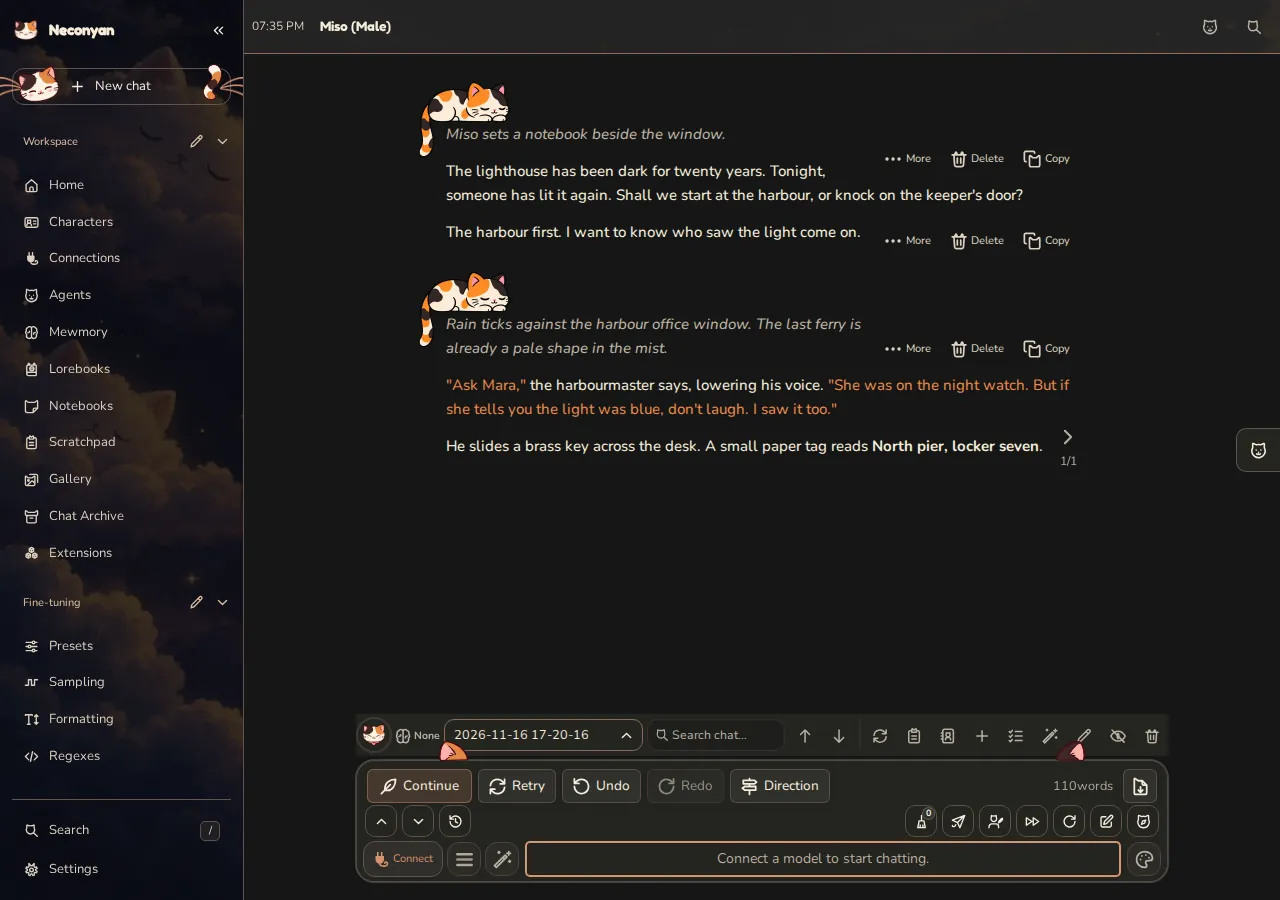
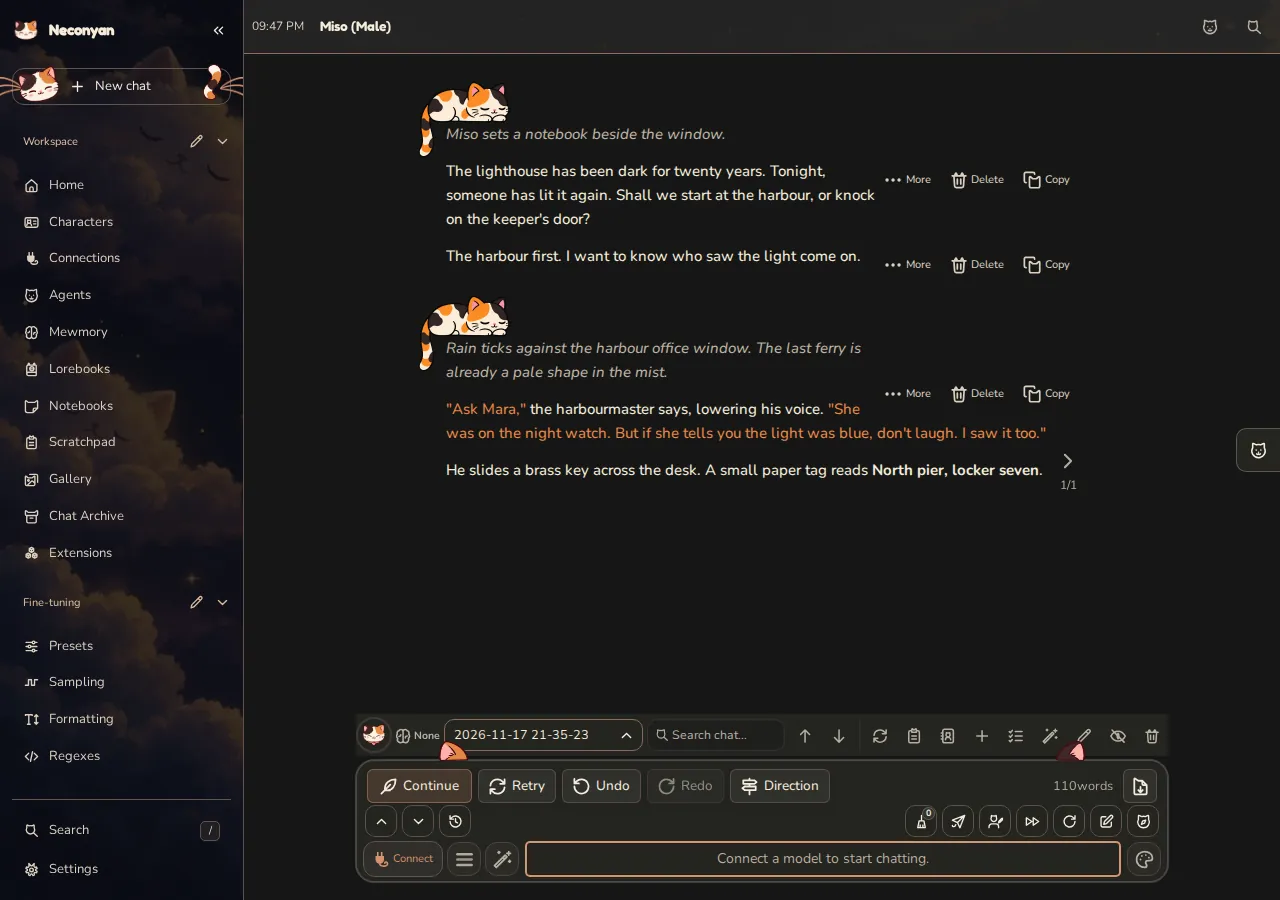
docs(screenshots): refresh the workspace screenshots from 31d628fa

Changed region(s): [[0.3125, 0.2178, 0.8438, 0.5289], [0.6875, 0.1556, 0.8438, 0.3111], [0.4062, 0.8089, 0.4688, 0.84]]

diff --git a/README.md b/README.md
@@ -6,7 +6,7 @@ I want you to get a reply before you need to understand every setting. The guide
 
 Miso, Taro and Nori explain things in their own voices. You can choose each guide’s male, female or neutral appearance independently. Their dialogue is written documentation; reading it doesn’t call a model.
 
-The site includes 55 pages, a reference for 201 registered macros, twenty-four real demonstration screenshots and a downloadable extension starter. I've reviewed the practical guides for the published [Neconyan 1.5.5 release](https://github.com/platberlitz/Neconyan/releases/tag/v1.5.5) at **`680a05f1`** on 15 November 2026. This edition covers Mewmory's Story tab, Archive tools, in-chat controls, estimates and exports; Scratchpad's quick prompts, typed tools, dictation, branching, export choices and extra change cards; the Translator Agent; the reworked Presets page; the Conversation messenger layout; failed and empty replies; and the Device sync fixes. I refreshed all twenty-four screenshots on 16 November from the 1.5.6 staging build, with the source recorded in [ASSETS.md](ASSETS.md). The macro catalogue retains its reviewed 7 October snapshot. The Scene Note starter and extension styling guide carry the accent button guidance; the other extension examples retain their reviewed 7 October snapshots.
+The site includes 55 pages, a reference for 201 registered macros, twenty-four real demonstration screenshots and a downloadable extension starter. I've reviewed the practical guides for the published [Neconyan 1.5.5 release](https://github.com/platberlitz/Neconyan/releases/tag/v1.5.5) at **`680a05f1`** on 15 November 2026. This edition covers Mewmory's Story tab, Archive tools, in-chat controls, estimates and exports; Scratchpad's quick prompts, typed tools, dictation, branching, export choices and extra change cards; the Translator Agent; the reworked Presets page; the Conversation messenger layout; failed and empty replies; and the Device sync fixes. I refreshed all twenty-four screenshots on 17 November from the 1.5.6 staging build, with the source recorded in [ASSETS.md](ASSETS.md). The macro catalogue retains its reviewed 7 October snapshot. The Scene Note starter and extension styling guide carry the accent button guidance; the other extension examples retain their reviewed 7 October snapshots.
 
 ## Preview locally
 
@@ -43,7 +43,7 @@ Avoid repeated 'same X' phrasing and three-item lists written for rhythm. Keep a
 
 Use demonstration data for screenshots. Desktop captures are 1280×900 and phone captures are 393×852. Keep verification captures in `screenshots/`; that directory is ignored. Images published in the handbook belong in `docs/assets/images/screenshots/`.
 
-I captured all twenty-four screenshots on 16 November 2026 from Neconyan at `49d60b17`, using the default Calico Dark accent and Background Visibility at 0%. The app README uses identical copies. The Proofreader example uses a fixed sample response through the real Agent workflow, with edit, Undo and Redo checked at both widths. Capture provenance and browser settings are in [ASSETS.md](ASSETS.md). When replacing screenshots, update that record and check the affected guides and screenshot zoom at both widths.
+I captured all twenty-four screenshots on 17 November 2026 from Neconyan at `31d628fa`, using the default Calico Dark accent and Background Visibility at 0%. The app README uses identical copies. The Proofreader example uses a fixed sample response through the real Agent workflow, with edit, Undo and Redo checked at both widths. Capture provenance and browser settings are in [ASSETS.md](ASSETS.md). When replacing screenshots, update that record and check the affected guides and screenshot zoom at both widths.
 
 ## Update the macro reference
 

diff --git a/ASSETS.md b/ASSETS.md
@@ -4,11 +4,11 @@ The bundled artwork was copied from [Neconyan at 6e0269d0](https://github.com/pl
 
 ## Screenshots
 
-I captured all twenty-four screenshots on 16 November 2026 from [Neconyan at 49d60b17](https://github.com/platberlitz/Neconyan/tree/49d60b1740f00ee27a5a0b39f255f969748c2c36), the 1.5.6 staging build. Home, Roleplay, Catelier, Simple Mode, Conversation, Meower, Story Mode, Notebooks, Scratchpad, Agents, Proofreader and Device sync each have a desktop and phone image. The app README and this handbook use identical copies.
+I captured all twenty-four screenshots on 17 November 2026 from [Neconyan at 31d628fa](https://github.com/platberlitz/Neconyan/tree/31d628fa), the 1.5.6 staging build with the tour card fix for short phone screens. Home, Roleplay, Catelier, Simple Mode, Conversation, Meower, Story Mode, Notebooks, Scratchpad, Agents, Proofreader and Device sync each have a desktop and phone image. The app README and this handbook use identical copies.
 
 The captures use disposable demonstration data: Calico Dark with its default accent, bundled assistants and staged chats, posts, notes, a character dossier and a Scratchpad discussion. I set Background Visibility to 0% for opaque reading panels. The default colours and visibility setting were checked before every capture. No personal account data was used. The Proofreader example runs the real Agent workflow with one intercepted provider request returning a fixed sample response; its edit, Undo and Redo were checked again at both widths. It isn't a live model demonstration. No external model requests were made.
 
-These replace the twenty-two images from the 1.5.4 candidate and the two Conversation images from 1.5.5 staging. Neconyan 1.5.5 remains the published release; the screenshot refresh doesn't change the guides' recorded review version.
+These replace the 16 November captures from `49d60b17`. Neconyan 1.5.5 remains the published release; the screenshot refresh doesn't change the guides' recorded review version.
 
 I used Playwright with Chromium at 1280×900 for desktop with a pixel ratio of 1, and 393×852 with touch emulation for phone at a pixel ratio of 1.5. The saved images are 1280×900 and 590×1278 pixels. These are browser viewport captures, not physical-phone or Safari verification. I converted them to WebP at quality 80, method 6, without resizing or compositing interface elements.
 

diff --git a/docs/help/about.md b/docs/help/about.md
@@ -30,7 +30,7 @@ The practical guides focus on common tasks and link to longer references when yo
 
 ## Screenshots and artwork
 
-I refreshed all twenty-four workspace screenshots on 16 November 2026 from [Neconyan at 49d60b17](https://github.com/platberlitz/Neconyan/tree/49d60b1740f00ee27a5a0b39f255f969748c2c36), the 1.5.6 staging build. They use the default Calico Dark colours, Background Visibility at 0%, demonstration content and the bundled assistants. Some details may look different in the published 1.5.5 release. The Proofreader example uses a fixed sample response through the real edit-history workflow, with edit, Undo and Redo checked at both widths. It isn't a live model conversation.
+I refreshed all twenty-four workspace screenshots on 17 November 2026 from [Neconyan at 31d628fa](https://github.com/platberlitz/Neconyan/tree/31d628fa), the 1.5.6 staging build. They use the default Calico Dark colours, Background Visibility at 0%, demonstration content and the bundled assistants. Some details may look different in the published 1.5.5 release. The Proofreader example uses a fixed sample response through the real edit-history workflow, with edit, Undo and Redo checked at both widths. It isn't a live model conversation.
 
 Miso, Taro and Nori use Neconyan's existing assistant artwork, with male, female and neutral variants. Their handbook dialogue is written guidance, not a live model conversation. Gender preferences stay in the browser when storage is available.
 

diff --git a/docs/help/device-sync.md b/docs/help/device-sync.md
@@ -12,7 +12,7 @@ quote: 'Choose what travels, save on both sides, then transfer. A newer date alo
     I've reviewed this guide against the published [Neconyan 1.5.4 release](https://github.com/platberlitz/Neconyan/releases/tag/v1.5.4) at commit **e1f05ec6** on 11 November 2026.
 
 !!! info "Changed in 1.5.5"
-    I've reviewed this guide against the published [Neconyan 1.5.5 release](https://github.com/platberlitz/Neconyan/releases/tag/v1.5.5) at commit **680a05f1** on 15 November 2026. The fixes marked 1.5.5 below aren't in 1.5.4 or earlier. I refreshed the screenshots on 16 November from the 1.5.6 staging build; see [About these docs](about.md#screenshots-and-artwork) for the capture source.
+    I've reviewed this guide against the published [Neconyan 1.5.5 release](https://github.com/platberlitz/Neconyan/releases/tag/v1.5.5) at commit **680a05f1** on 15 November 2026. The fixes marked 1.5.5 below aren't in 1.5.4 or earlier. I refreshed the screenshots on 17 November from the 1.5.6 staging build; see [About these docs](about.md#screenshots-and-artwork) for the capture source.
 
 === "On desktop"
 
